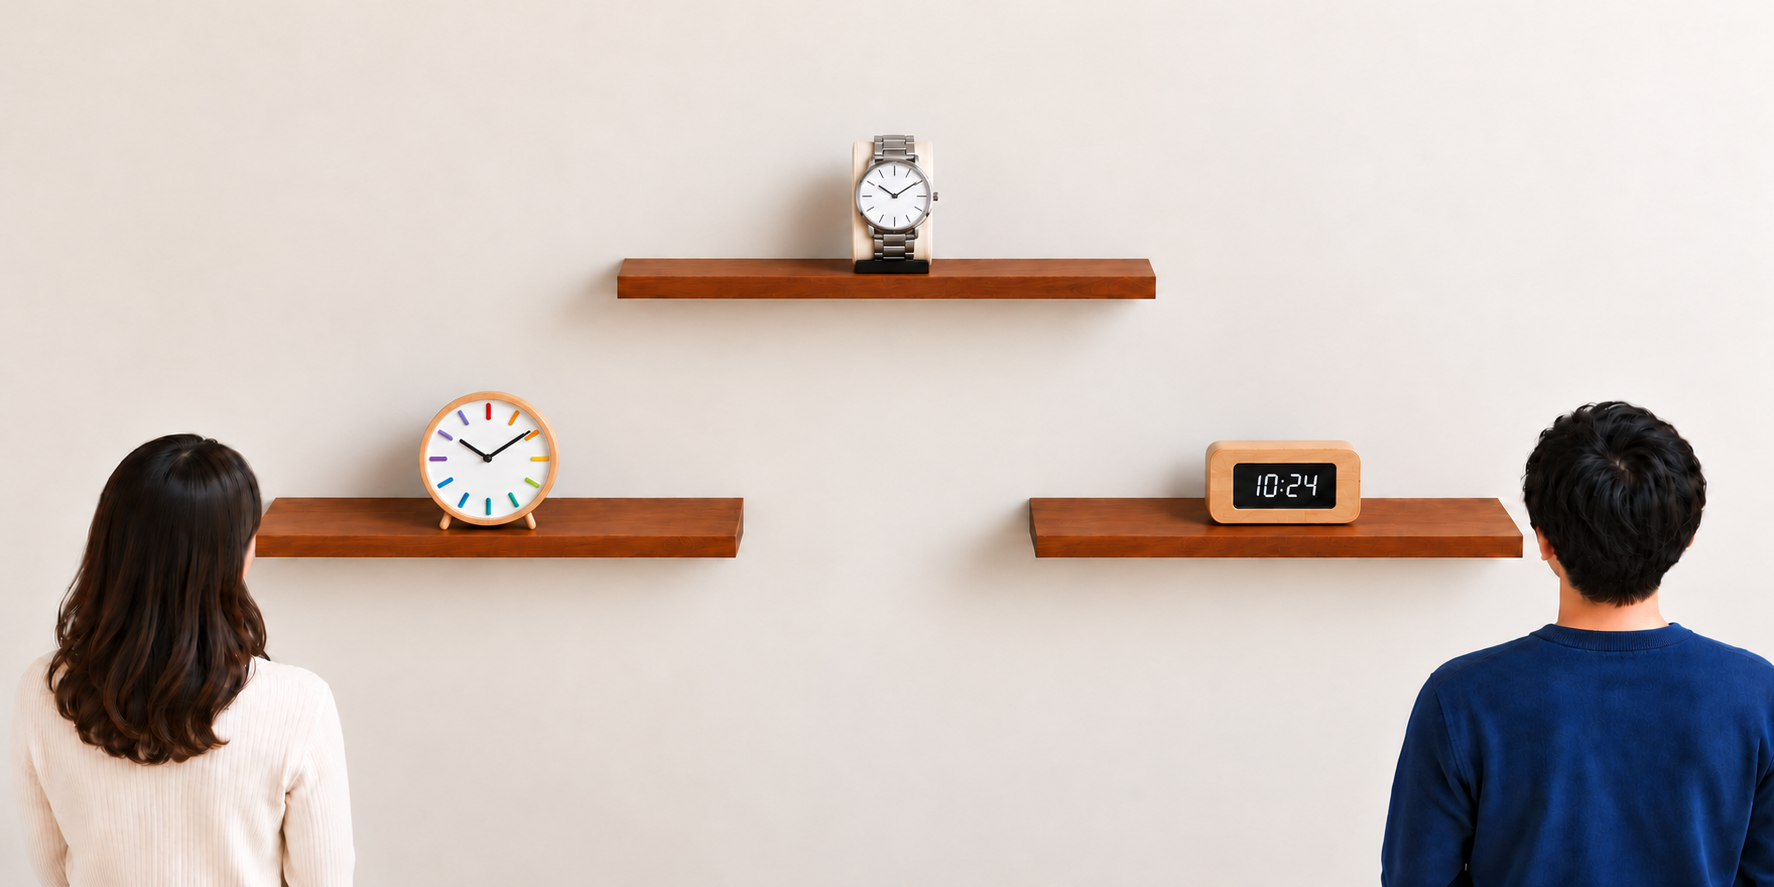
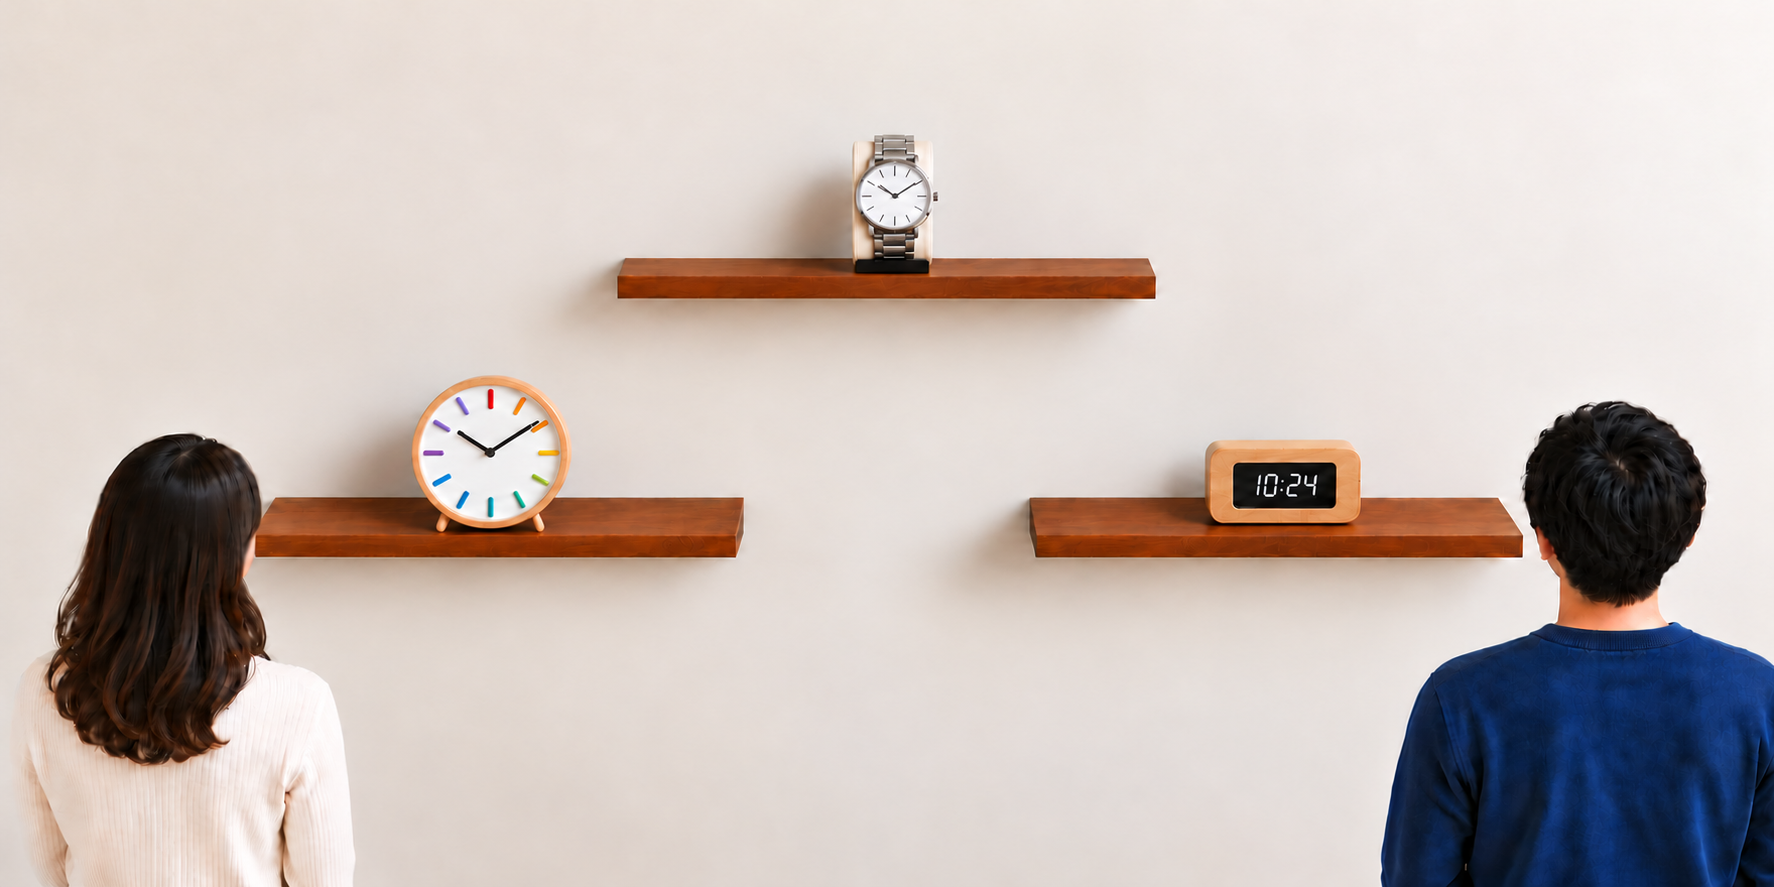
Restrict distance concepts to examples and refine scene annotations

Changed region(s): [[0.186, 0.4262, 0.341, 0.6088], [0.7131, 0.5175, 0.7441, 0.5784], [0.4961, 0.2435, 0.5271, 0.3044]]

diff --git a/practice2-next.js b/practice2-next.js
@@ -1259,7 +1259,7 @@ function practice2ShowNotice(resultSpan, message) {
         const shopGeometry={
             hats:{centers:[[27,54],[74,54],[50,24]],tops:[47,46,17]},
             bag:{centers:[[27,51],[73,52],[50,23]],tops:[41,43,14.5]},
-            clock:{centers:[[27.5,52],[72.5,54],[50,23]],tops:[44,49,15]},
+            clock:{centers:[[27.5,51],[72.5,54],[50,23]],tops:[42,49,15]},
             fruit:{centers:[[27.5,52],[72.5,53],[50,24]],tops:[46,48,19]},
             onigiri:{centers:[[27.5,54],[72.5,54],[50,25]],tops:[49,49,20]},
             bento:{centers:[[30,57],[73,57],[50,28]],tops:[50,50,19]}
@@ -1394,9 +1394,9 @@ function practice2ShowNotice(resultSpan, message) {
     };
     function cityScene(container,{example=false,times=false,objects=cityObjects(),drill=false,indoor=false,call=false}={}) {
         const picture=node('div','p21-drill-picture p2x-picture p23-city-picture'+(example?' p2x-example-picture':''));
-        picture.classList.toggle('p23-indoor-picture',indoor);
+        picture.classList.toggle('p23-indoor-picture',indoor);picture.classList.toggle('p23-practice-picture',!example);
         const context=node('p','p21-photo-context p2x-speaker-guide');
-        if(call){context.dataset.prompt='A is calling B';context.dataset.playingLabel='A is calling B';picture.classList.add('p23-call-example');}
+        if(call){context.dataset.prompt='📞 A is calling B.';context.dataset.playingLabel='📞 A is calling B.';context.classList.add('p23-call-note');picture.classList.add('p23-call-example');}
         SpeakerGuide.init(context);
         if(example){picture.append(context);if(!call)picture.append(node('p','p23-call-link','📞 A ↔ B'))
         }
@@ -1405,7 +1405,7 @@ function practice2ShowNotice(resultSpan, message) {
         photo.alt=indoor?'A at the bank and B at the cafe are on a phone call. C reads quietly at the library.':'A and B are on a phone call in different cities. C is reading a book in a third city, not in their conversation.';stage.append(photo);
         for(const [i,o]of objects.entries()) {
             const region=node('div','p23-city-region');region.dataset.zone=o.zone;region.style.left=(i*100/3)+'%';
-            const caption=node('div','p2x-distance-label');caption.dataset.zone=o.zone;caption.append(node('strong','p21-area-sound'),node('span','p21-area-description'));region.append(caption);
+            if(example){const caption=node('div','p2x-distance-label');caption.dataset.zone=o.zone;caption.append(node('strong','p21-area-sound'),node('span','p21-area-description'));region.append(caption);}
             const hint=node('span','p23-city-hint');imageHint(hint,o);region.append(hint);
             region.append(node('strong','p23-city-person',['A','B','C'][i]));
             const clock=node('span','p23-city-time',times?o.clock:indoor?'':word(o.periodHira,o.periodKanji));
@@ -1415,7 +1415,7 @@ function practice2ShowNotice(resultSpan, message) {
         container.append(picture);
         function select(speaker,zone){
             picture.dataset.speaker=speaker;picture.dataset.target=zone||'';context.dataset.nextSpeaker=speaker;
-            picture.querySelectorAll('.p23-city-region').forEach(e=>{const value=sound(speaker,e.dataset.zone);e.dataset.sound=value;e.classList.toggle('is-target',e.dataset.zone===zone);e.querySelector('.p21-area-sound').textContent=value;e.querySelector('.p21-area-description').textContent=value==='こ'?'Near the speaker':value==='そ'?'Near the listener':'Far from both';});
+            picture.querySelectorAll('.p23-city-region').forEach(e=>{const value=sound(speaker,e.dataset.zone);e.dataset.sound=value;e.classList.toggle('is-target',e.dataset.zone===zone);const caption=e.querySelector('.p2x-distance-label');if(caption){caption.querySelector('.p21-area-sound').textContent=value;caption.querySelector('.p21-area-description').textContent=value==='こ'?'Near the speaker':value==='そ'?'Near the listener':'Far from both';}});
             container.querySelectorAll('.p21-model-line').forEach(e=>e.classList.toggle('is-current-model',e.dataset.modelSpeaker===speaker&&e.dataset.zone===zone));
         }
         select.placeButton=(button,o)=>{const holder=node('div','p23-in-scene-audio');holder.dataset.zone=o.zone;holder.append(button);stage.querySelector(`.p23-city-region[data-zone="${o.zone}"]`).append(holder);};

diff --git a/style.css b/style.css
@@ -2912,3 +2912,21 @@ body[data-practice="2.3"] .tooltip-tip { position: fixed; left: 12px; top: 12px;
 .p23-city-region[data-sound="あ"] .p2x-distance-label { color: #b45309; }
 .p23-call-example > .p2x-speaker-guide { margin-bottom: 8px; }
 .p23-call-example .p23-city-time { bottom: calc(5% + 40px); }
+
+/* Every part of the unknown bubble uses the same opaque fill and outline. */
+.p21-which-example .p21-thought-dots::before,
+.p21-which-example .p21-thought-dots::after { background: #ffe3e3; border-color: #b91c1c; }
+/* Start each near region immediately below its price tag. */
+.p2x-reach[data-reach="A"] { top: calc(47% - 3px); height: calc(26% + 3px); }
+.p2x-reach[data-reach="B"] { top: calc(46% - 3px); height: calc(27% + 3px); }
+.p2x-cropped-picture .p2x-distance-label[data-zone="far"] { top: 7% !important; }
+.p2x-reach[data-reach="far"] { top: 4%; height: 36%; }
+/* The call annotation lives outside the photograph and differs from Who prompts. */
+.p23-call-example { position: relative; }
+.p23-call-example > .p23-call-note { position: absolute; left: auto; right: calc(100% + 12px); top: 16px; width: 140px; max-width: none; margin: 0; padding: 4px; border: 0; border-radius: 0; background: transparent; box-shadow: none; color: #334155; font: italic 700 20px/1.4 Georgia,serif; text-shadow: none; }
+.p23-city-region .p2x-distance-label { background: rgb(255 253 246 / 76%); }
+@media(max-width:1100px) {
+ .p23-call-example > .p23-call-note { position: static; width: max-content; max-width: 100%; margin: 0 0 8px; }
+}
+
+.p23-practice-picture .p23-city-region { background: none; border-color: transparent; }

diff --git a/docs/HANDOVER.md b/docs/HANDOVER.md
@@ -3,6 +3,7 @@
 最終更新日：2026-10-28
 
 ## 現在のリレー状態（2026-10-28／Europe/Vienna）
+- 今回開始main 42c24c7／work、同期・クリーン確認。2.1 E2小丸を雲と同じ不透明塗り/枠へ。2.2あ説明を棚上、こ/そ着色開始を値札直下へ。時計6,000円商品を約1割拡大。2.3電話案内📞付き・Georgia斜体・広幅は図左枠外、狭幅は図直前。概念札の白背景は76%不透明度。追加指示により2.3全Drillから概念札/領域色/枠を撤去、2.1/2.2 Drにも同種説明がないことを確認。自動検証：街238件、話者案内129件、全ページ間隔56件合格。600/1440px描画確認。実機未確認。
 - 追加指示：2.3 E1はA is calling B（再生時も固定文言、点滅は維持）を画像直前へ仮配置。Practice times注意文を撤去、時刻を表示して音声ボタンの上に置く。場所の音説明を白寄りの角丸背景＋領域対応色へ。位置の最終決定は実機確認後。
 - 今回開始main dfb688d／work、同期・クリーン確認。2.1 E1そ説明8px左、E2ど雲の余裕拡大・B対象を奥のスマホへ変更し「あれです」・金色はどれだけ。2.2 E3ど雲も拡大、Whoを両ページ20pxへ、E1各音声とあ説明の配置調整。帽子を原型に時計/カバン写真の上段棚を同幅・同高さへ統一し、値札/ホバー座標を合わせた。2.1は792件、2.2は404件、2.3は236件、案内129件、間隔56件合格。600/1440px描画確認。ユーザー実機未確認。
 - 今回開始時main ab98715／work、クリーン・同期確認。2.1 E2のA/B音声を写真内の人物近くへ、ど雲を不透明な薄赤＋濃赤文字/枠へ。Example→Drillの適用漏れを全11ページ点検、2.1 E2・1.1の25px・7.3の25pxを共通24px、1.1次セクションは40pxへ。2.2の6写真を実際の壁が続くよう編集、時計上段棚を帽子に近い高さへ、金額を商品直上3pxアンカーへ。E1こ/そ説明は棚直下、B音声を帽子の左へ。果物だけの可変上部トリミングを撤去し全Example可視枠2:0.94で統一。棚幅の一括短縮（1〜2割案）は意見提示のみで未実施。自動検証：2.1 792件、2.2 404件、2.3 236件、話者案内124件、全ページ間隔/図枠52件、TTS22件、1.1は20件合格。600/1440px描画確認済み。利用枠取得不可・既存確認待ち。ユーザー実機未確認。

diff --git a/docs/UI_LAYOUT_SPEC.md b/docs/UI_LAYOUT_SPEC.md
@@ -235,3 +235,10 @@ L1・L2ページはHiragana初期表示。練習2のWith漢字は参考漢字表
 - 2.2 E1は近い2組の音声を棚から少し下へ離し、遠い組は対象の左側で下げて近づける。あ説明は右下へ、全文が色領域内に収まるよう領域も下へ広げる。時計写真の中央棚は帽子写真の棚幅へ合わせる。
 
 - 2.3 E1の案内は「A is calling B」に固定（再生点滅は維持）。位置は仮に画像直前。「Practice times · not a live clock」は撤去し、E1時刻を図内で音声ボタンの上へ表示。こ/そ/あ説明は白寄り背景の角丸枠、各領域と同色系の文字・枠で表示する。
+
+### 領域説明はExampleのみ（2026-10-28）
+- 練習2のDrillにこ/そ/あの概念説明札・領域色・概念枠を出さない。2.3のD1/D2/D3も撤去し、人物・場所・品物・時刻・操作だけ残す。Exampleで導入してDrillで適用させる。
+- 2.1 E2ど雲の小丸2つも本体と同じ不透明#ffe3e3・枠#b91c1cとする。
+- 2.2 E1のこ/そ領域上端は各値札の下端（商品上端47%/46%から3px上）に合わせる。あ説明は上段棚より上、下段商品と重ねない。時計の左6,000円商品は約1割拡大する。
+- 2.3 E1電話案内は📞 A is calling B.。広幅では図の左枠外、1100px以下では図直前の左寄せ。Whoの赤い囲みを使わずGeorgia斜体・20pxで区別する。再生中の強調は維持。
+- 2.3 Exampleの概念札は白寄り背景の不透明度76%、領域に対応する文字・細枠、角丸8px。背景写真を少し見せつつ文字の読みやすさを優先する。

diff --git a/docs/PROJECT_SPEC.md b/docs/PROJECT_SPEC.md
@@ -1038,3 +1038,5 @@ Voice変更時の旧モデル曲線消去は実装済み。モデル文変更時
 - Example→Drillの24px／次セクション40pxを全ページ共通変数で適用。2.1 E2は図内人物近くのA/B音声と不透明な「ど」吹き出し。2.2は壁が自然に続く6写真、3つのExampleの可視画像サイズを統一。中央棚の幅短縮は未確定。詳細はUI_LAYOUT_SPECの最新節を参照。
 
 - 2026-10-28追補：2.1 E2返答は奥のスマホを指す「あれです」、強調はどれのみ。2.1/2.2 Whoは20px統一。2.3 E1はA is calling Bの仮配置と時刻表示、時刻注意文撤去、領域説明に白寄り角丸背景。UI_LAYOUT_SPEC最新節を参照。
+
+- 2026-10-28追補：練習2の領域概念の説明札・色・枠はExampleのみ。2.3の全Drillから撤去。2.3 E1電話案内を図左外へ（狭幅では図直前）、概念札の背景は76%不透明度。2.1 E2の吹き出し小丸も本体と同じ不透明色に統一。

diff --git a/docs/PRACTICE22_23_SPEC.md b/docs/PRACTICE22_23_SPEC.md
@@ -116,3 +116,5 @@
 - 2026-10-28追補：2.2 Whoは2.1と同じ20px。E1あ説明を領域内の右下へ、音声位置を微調整。E3ど雲の枠内余裕を拡大。時計上段棚幅を帽子へ統一。
 
 - 2.3 E1は「A is calling B」を仮に図直前へ。従来の時刻注意文は撤去しE1は時刻自体を表示する。こ/そ/あ説明に白寄りの角丸背景と領域対応色を付ける。
+
+- 2026-10-28追補：2.3の概念表示はExampleだけ。全Drillから説明札と領域着色/枠を撤去。E1電話案内は📞付き・Georgia斜体、広幅は図の左枠外。概念札は白寄り背景76%不透明度で写真を透かす。
